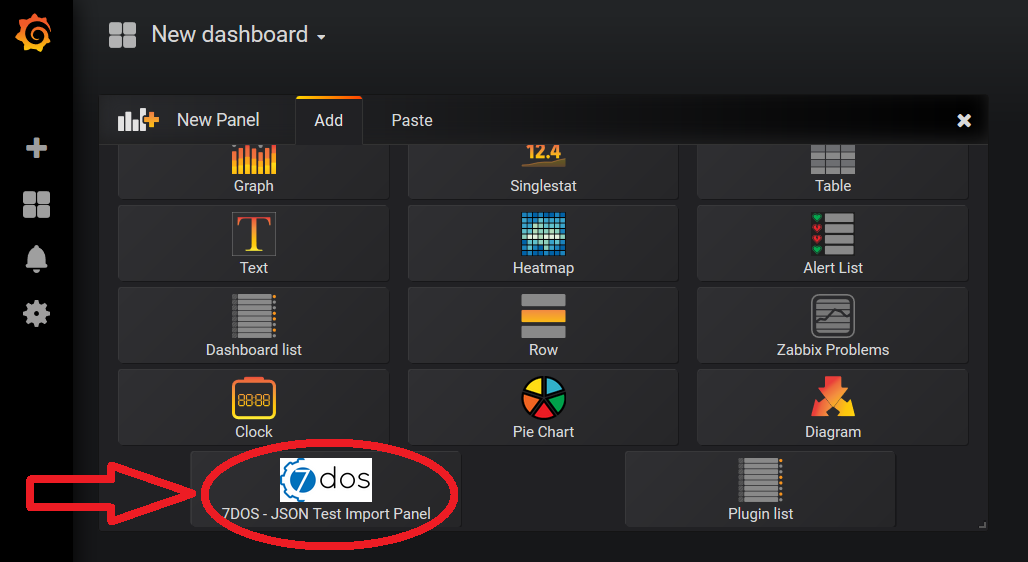
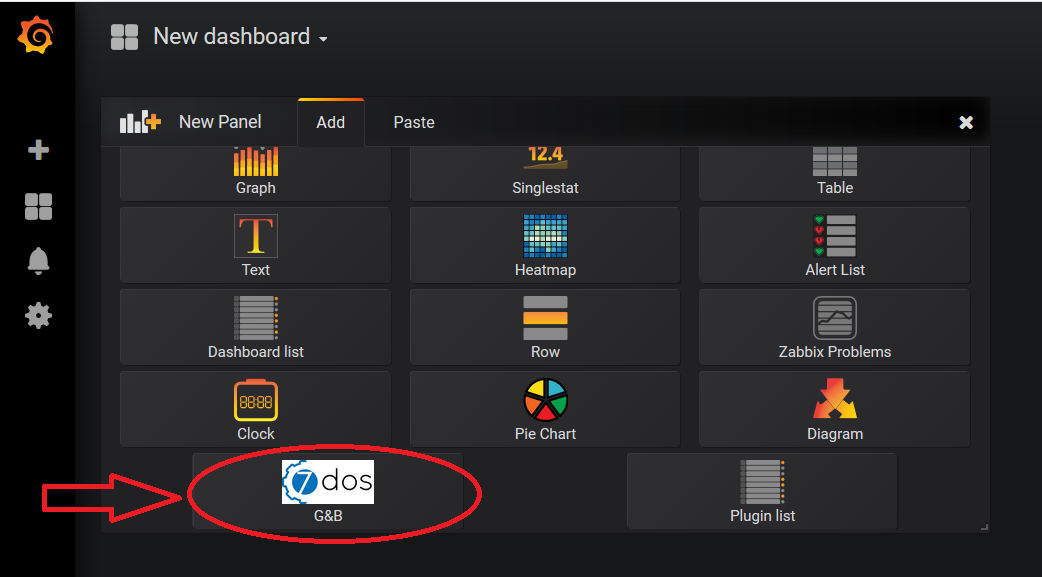
[MU] Aggiunta sezione

diff --git a/ManualeUtente/Res/Sezioni/Utilizzo/ConfigurazioneRete.tex b/ManualeUtente/Res/Sezioni/Utilizzo/ConfigurazioneRete.tex
@@ -1,0 +1,15 @@
+\subsubsection{Connessione dei nodi ai flussi di input}
+\begin{figure} [H]
+	\centering
+	\includegraphics[scale=0.55]{Img/configurazionerete} 
+	\caption{Tab di connessione} \label{} 
+\end{figure} 
+Dopo aver importato la rete Bayesiana tramite l'apposita tab, è possibile procedere alla configurazione delle connessioni per ogni nodo.
+Il procedimento per connettere un nodo ad uno specifico flusso dati è il seguente:
+\begin{enumerate}
+	\item Posizionarsi sulla riga del nodo del quale si vuole configurare il flusso di input;
+	\item Scegliere la datasource nella quale è presente il flusso dati;
+	\item Scegliere il database al quale appartiene il flusso dati;
+	\item Scegliere la tabella (anche detta measurement in alcune datasource);
+	\item Scegliere il campo specifico.
+\end{enumerate}

diff --git a/ManualeUtente/Res/Sezioni/Utilizzo/AggiuntaPanel.tex b/ManualeUtente/Res/Sezioni/Utilizzo/AggiuntaPanel.tex
@@ -5,3 +5,6 @@
 	\includegraphics[scale=0.8]{Img/aggiuntapanel} 
 	\caption{Aggiunta del panel - Selezione del panel G\&B} \label{} 
 \end{figure} 
+All'interno delle selezione dei panel, dopo l'abilitazione dell'app "7DOS jsBayes", sarà disponibile il panel G\&B.\\
+Dopo averlo selezionato potrete accedere alle sue funzionalità.
+\pagebreak
